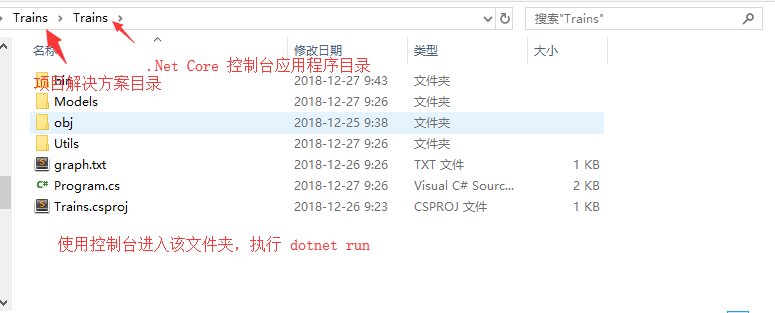
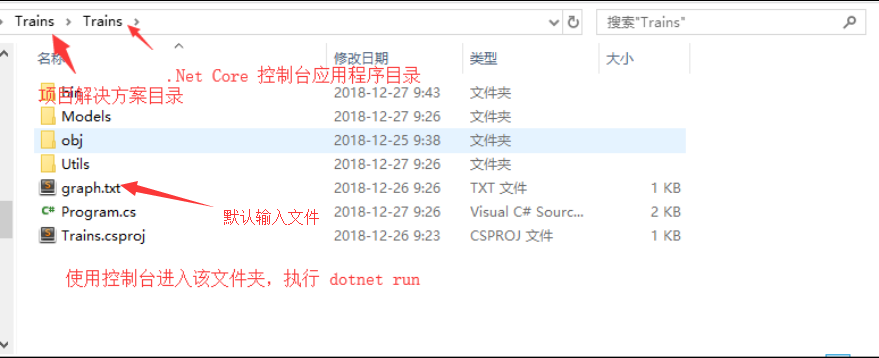
Readme 优化

diff --git a/README.md b/README.md
@@ -3,7 +3,7 @@
 
 # 快速开始 #
 #### 方式一
-- 默认的输入文件在目录 /Trains/Trains/graph.txt      (如要修改默认测试值，请修改文件内容)
+- 工程在在目录 /Trains/Trains (/graph.txt为默认输入文件，如要修改默认测试值，请修改文件内容)
 ![示例1](/Example1.png)
 - 在目录 /Trains/Trains 下打开命令窗口 执行
 ``` 
